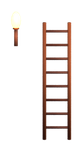
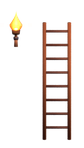
Daan: fakkel in 3D leest als fakkel (druppelvlam in drie lagen, beugel, kamerhout), ladder minder oranje; proef in ontwerp/steam/fakkel-3d
Claude-Session: https://claude.ai/code/session_01RMWUyjpDheaNiVG8vjzwCS

Changed region(s): [[0.0952, 0.0811, 0.2857, 0.3243]]

diff --git a/producten/steam-hol/modellen/hol.py b/producten/steam-hol/modellen/hol.py
@@ -132,6 +132,14 @@ HOUT = g.mat("hout", "8a4b2a", rough=0.7, spec=0.2)
 HOUT_D = g.mat("hout_d", "5a2e1c", rough=0.75)
 VLAM = g.mat("vlam", "ffb347", emis=9.0)
 VLAM_K = g.mat("vlamkern", "fff1b0", emis=14.0)
+# Daan 13 nov 23:40: vlam in drie lagen met lage emissie. Emissie 9 en 14 knipt met view transform Standard naar
+# wit: de fakkel las als een wit ei op een stokje. Proef en vergelijking in ontwerp/steam/fakkel-3d/.
+V_BUIT = g.mat("v_buit", "ff5a1f", emis=1.6)   # rood-oranje rand
+V_MID = g.mat("v_mid", "ff9b2a", emis=2.4)     # oranje
+V_HART = g.mat("v_hart", "ffe27a", emis=3.2)   # geel hart, net niet wit
+HOUT_F = g.mat("hout_f", "6e4632", rough=0.75, spec=0.2)   # zelfde donkerder hout als de kamerstukken
+DOEK = g.mat("doek", "3a2418", rough=0.9, spec=0.1)        # omwikkelde kop met pek
+IJZER = g.mat("ijzer", "3b3640", rough=0.45, metaal=0.8)
 ROBIJN = g.mat("robijn", "rood", rough=0.08, spec=1.0, emis=0.4)
 SAFIER = g.mat("safier", "4fa3ff", rough=0.08, spec=1.0, emis=0.4)
 WORTEL = g.mat("wortel", "c9a27a", rough=0.8)
@@ -276,7 +284,7 @@ go = bpy.data.objects.new("goudgloed", gd); go.location = (2.0, 0.2, 1.3); sc.co
 
 # ladder in de schacht naar het gras
 for kant in (-0.35, 0.35):
-    cil("ladder_paal", (-11.0 + kant, 0.6, 1.6), 0.05, 3.4, HOUT, verts=8)
+    cil("ladder_paal", (-11.0 + kant, 0.6, 1.6), 0.05, 3.4, HOUT_F, verts=8)  # Daan 23:45: kamerhout, minder oranje
 for k in range(8):
     cil("ladder_sport", (-11.0, 0.6, 0.25 + k * 0.4), 0.035, 0.7, HOUT_D, rot=(0, math.radians(90), 0), verts=8)
 
@@ -290,12 +298,35 @@ for i in range(10):
 
 
 # ---------- fakkels met echt warm licht ----------
+def druppel(naam, loc, r, hoog, m, scheef=0.0):
+    """Vlam als druppel: onderkant bol, bovenhelft getrokken tot een punt die iets opzij buigt. Geen schaduw."""
+    bpy.ops.mesh.primitive_uv_sphere_add(segments=20, ring_count=14, radius=1, location=(0, 0, 0))
+    o = bpy.context.object; o.name = naam
+    for v in o.data.vertices:
+        if v.co.z > 0:
+            t = v.co.z; k = (1 - t) ** 1.6
+            v.co.x = v.co.x * k + scheef * t * t; v.co.y *= k; v.co.z = t * hoog
+    o.scale = (r, r * 0.85, r); o.location = loc; o.visible_shadow = False
+    bpy.ops.object.shade_smooth(); return kies(o, m)
+
+
+def vlam_fakkel(pre, x, y, z, beugel=True, groot=1.2):
+    if beugel:
+        cil(pre + "beugelplaat", (x, y + 0.12, z - 0.18), 0.07, 0.03, IJZER, rot=(math.radians(90), 0, 0), verts=6)
+        cil(pre + "beugelarm", (x, y + 0.04, z - 0.14), 0.018, 0.16, IJZER, rot=(math.radians(90), 0, 0), verts=8)
+        cil(pre + "beugelring", (x, y - 0.03, z - 0.12), 0.07, 0.04, IJZER, verts=16)
+    cil(pre + "steel", (x, y - 0.03, z - 0.16), 0.055, 0.42, HOUT_F, rot=(math.radians(-12), 0, 0), verts=10, r2=0.035)
+    cil(pre + "kop", (x, y - 0.06, z + 0.07), 0.085 * groot, 0.13, DOEK, verts=12, r2=0.1 * groot)
+    zv = z + 0.16
+    druppel(pre + "vlam", (x, y - 0.08, zv + 0.10 * groot), 0.15 * groot, 2.3, V_BUIT, scheef=0.05)
+    druppel(pre + "vlammid", (x, y - 0.13, zv + 0.08 * groot), 0.11 * groot, 2.0, V_MID, scheef=0.04)
+    druppel(pre + "kern", (x, y - 0.18, zv + 0.05 * groot), 0.06 * groot, 1.7, V_HART, scheef=0.02)
+
 def fakkel(x, z, kracht=160):
     # namen beginnen met "fakkel" (Bram 13 nov 23:25): de pijplijn maakt er een losse laag van (HOL_ALLEEN ["fakkel"])
-    cil("fakkelsteel", (x, 1.0, z - 0.25), 0.05, 0.55, HOUT_D, rot=(math.radians(-18), 0, 0), verts=8)
-    cil("fakkelkop", (x, 0.92, z + 0.05), 0.09, 0.12, HOUT, verts=10)
-    bol("fakkelvlam", (x, 0.9, z + 0.24), (0.14, 0.11, 0.26), VLAM, 12)
-    bol("fakkelkern", (x, 0.85, z + 0.2), (0.06, 0.05, 0.1), VLAM_K, 10)
+    # Daan 13 nov 23:40: ijzeren beugel, steel van kamerhout, donkere kop, vlam als druppel met punt (3 lagen).
+    # Zelfde hoogte als de oude fakkel (van z - 0,52 tot z + 0,52), dus het vak in sprites.json blijft passen.
+    vlam_fakkel("fakkel", x, 1.0, z - 0.17, beugel=True)
     d = bpy.data.lights.new("fakkellicht", "POINT"); d.color = (1.0, 0.6, 0.28); d.energy = kracht; d.shadow_soft_size = 0.15
     o = bpy.data.objects.new("fakkellicht", d); o.location = (x, 0.5, z + 0.35); sc.collection.objects.link(o)
 
@@ -360,9 +391,11 @@ helm.rotation_euler = (0, math.radians(25), 0)
 
 # ingang: fakkel op een paal naast de schacht, met een boogje van stenen
 cil("ingangpaal", (-10.0, 0.35, MAAIVELD + 0.45), 0.05, 0.9, HOUT_D, verts=8)
-cil("ingangkop", (-10.0, 0.35, MAAIVELD + 0.93), 0.09, 0.12, HOUT, verts=10)
-bol("ingangvlam", (-10.0, 0.33, MAAIVELD + 1.1), (0.14, 0.11, 0.26), VLAM, 12)
-bol("ingangkern", (-10.0, 0.28, MAAIVELD + 1.06), (0.06, 0.05, 0.1), VLAM_K, 10)
+# Daan 13 nov 23:40: zelfde vlam als de gangfakkels, kop bovenop de paal
+cil("ingangkop", (-10.0, 0.35, MAAIVELD + 0.93), 0.085 * 1.2, 0.13, DOEK, verts=12, r2=0.1 * 1.2)
+druppel("ingangvlam", (-10.0, 0.33, MAAIVELD + 1.03 + 0.12), 0.18, 2.3, V_BUIT, scheef=0.05)
+druppel("ingangvlammid", (-10.0, 0.28, MAAIVELD + 1.03 + 0.10), 0.13, 2.0, V_MID, scheef=0.04)
+druppel("ingangkern", (-10.0, 0.23, MAAIVELD + 1.03 + 0.06), 0.07, 1.7, V_HART, scheef=0.02)
 il = bpy.data.lights.new("ingangslicht", "POINT"); il.color = (1.0, 0.6, 0.28); il.energy = 60; il.shadow_soft_size = 0.15
 ilo = bpy.data.objects.new("ingangslicht", il); ilo.location = (-10.0, 0.0, MAAIVELD + 1.15); sc.collection.objects.link(ilo)
 for k in range(9):

diff --git a/ontwerp/steam/fakkel-3d/fakkel.py b/ontwerp/steam/fakkel-3d/fakkel.py
@@ -1,0 +1,102 @@
+"""Proef fakkel in 3D (Daan, 13 nov 2026). Links de huidige fakkel uit hol.py, dan voorstel A en B.
+Draai: <venv>/bin/python fakkel.py uit.png breedte hoogte samples [doorzichtig 0/1]
+Waarom: in de deco-laag las de huidige vlam als een wit ei op een stokje (wattenstaafje). Oorzaak: emissie 9 en 14
+met view transform Standard knipt alles naar wit. Een fakkel leest pas als fakkel met een oranje druppel met punt,
+een geel hart, een donkere omwikkelde kop en een ijzeren beugel aan de muur.
+"""
+import sys, os, math
+sys.path.insert(0, os.path.join(os.path.dirname(os.path.abspath(__file__)), "../../../producten/steam-hol/modellen"))
+import bpy
+import gedeeld as g
+
+uit, W, H, S = sys.argv[1], int(sys.argv[2]), int(sys.argv[3]), int(sys.argv[4])
+DOOR = (sys.argv[5] == "1") if len(sys.argv) > 5 else False
+g.leeg()
+sc = bpy.context.scene
+
+
+def kies(o, m):
+    o.data.materials.append(m); return o
+
+
+def bol(naam, loc, schaal, m, segs=24):
+    bpy.ops.mesh.primitive_uv_sphere_add(segments=segs, ring_count=max(8, segs // 2), location=loc)
+    o = bpy.context.object; o.name = naam; o.scale = schaal
+    bpy.ops.object.shade_smooth(); return kies(o, m)
+
+
+def cil(naam, loc, r, d, m, rot=(0, 0, 0), verts=24, r2=None):
+    if r2 is None:
+        bpy.ops.mesh.primitive_cylinder_add(vertices=verts, radius=r, depth=d, location=loc, rotation=rot)
+    else:
+        bpy.ops.mesh.primitive_cone_add(vertices=verts, radius1=r, radius2=r2, depth=d, location=loc, rotation=rot)
+    o = bpy.context.object; o.name = naam; bpy.ops.object.shade_smooth(); return kies(o, m)
+
+
+def druppel(naam, loc, r, hoog, m, scheef=0.0):
+    """Vlam als druppel: onderkant bol, boven een punt die iets opzij buigt (flakkert)."""
+    bpy.ops.mesh.primitive_uv_sphere_add(segments=20, ring_count=14, radius=1, location=(0, 0, 0))
+    o = bpy.context.object; o.name = naam
+    for v in o.data.vertices:
+        z = v.co.z
+        if z > 0:  # bovenhelft trekken tot een punt
+            t = z
+            k = (1 - t) ** 1.6
+            v.co.x *= k; v.co.y *= k
+            v.co.z = z * hoog
+            v.co.x += scheef * t * t
+    o.scale = (r, r * 0.85, r); o.location = loc
+    o.visible_shadow = False  # een vlam geeft licht, geen schaduw
+    bpy.ops.object.shade_smooth(); return kies(o, m)
+
+
+# --- huidige (hol.py) ---
+HOUT = g.mat("hout", "8a4b2a", rough=0.7, spec=0.2)
+HOUT_D = g.mat("hout_d", "5a2e1c", rough=0.75)
+VLAM = g.mat("vlam", "ffb347", emis=9.0)
+VLAM_K = g.mat("vlamkern", "fff1b0", emis=14.0)
+
+
+def huidig(x, z=1.0):
+    cil("steel", (x, 1.0, z - 0.25), 0.05, 0.55, HOUT_D, rot=(math.radians(-18), 0, 0), verts=8)
+    cil("kop", (x, 0.92, z + 0.05), 0.09, 0.12, HOUT, verts=10)
+    bol("vlam", (x, 0.9, z + 0.24), (0.14, 0.11, 0.26), VLAM, 12).visible_shadow = False
+    bol("vlamkern", (x, 0.85, z + 0.2), (0.06, 0.05, 0.1), VLAM_K, 10).visible_shadow = False
+
+
+# --- nieuw ---
+HOUT2 = g.mat("hout2", "6e4632", rough=0.75, spec=0.2)      # zelfde donkerder hout als de kamers (ronde 5)
+DOEK = g.mat("doek", "3a2418", rough=0.9, spec=0.1)          # omwikkelde kop met pek
+IJZER = g.mat("ijzer", "3b3640", rough=0.45, metaal=0.8)
+V_BUIT = g.mat("v_buit", "ff5a1f", emis=1.6)                 # rood-oranje rand
+V_MID = g.mat("v_mid", "ff9b2a", emis=2.4)                   # oranje
+V_HART = g.mat("v_hart", "ffe27a", emis=3.2)                 # geel hart, net niet wit
+
+
+def nieuw(x, z=1.0, beugel=True, groot=1.0):
+    y = 1.0
+    if beugel:  # ijzeren plaatje op de muur en een ring om de steel
+        cil("beugelplaat", (x, y + 0.12, z - 0.18), 0.07, 0.03, IJZER, rot=(math.radians(90), 0, 0), verts=6)
+        cil("beugelarm", (x, y + 0.04, z - 0.14), 0.018, 0.16, IJZER, rot=(math.radians(90), 0, 0), verts=8)
+        cil("beugelring", (x, y - 0.03, z - 0.12), 0.07, 0.04, IJZER, verts=16)
+    cil("steel", (x, y - 0.03, z - 0.25), 0.055, 0.6, HOUT2, rot=(math.radians(-12), 0, 0), verts=10, r2=0.035)
+    cil("kop", (x, y - 0.06, z + 0.07), 0.085 * groot, 0.13, DOEK, verts=12, r2=0.1 * groot)
+    zv = z + 0.16
+    druppel("vlam_buit", (x, y - 0.08, zv + 0.10 * groot), 0.15 * groot, 2.3, V_BUIT, scheef=0.05)
+    druppel("vlam_mid", (x, y - 0.13, zv + 0.08 * groot), 0.11 * groot, 2.0, V_MID, scheef=0.04)
+    druppel("vlam_hart", (x, y - 0.18, zv + 0.05 * groot), 0.06 * groot, 1.7, V_HART, scheef=0.02)
+    d = bpy.data.lights.new("fakkellicht", "POINT"); d.color = (1.0, 0.6, 0.28); d.energy = 25; d.shadow_soft_size = 0.15
+    o = bpy.data.objects.new("fakkellicht", d); o.location = (x, y - 0.35, zv + 0.15); sc.collection.objects.link(o)
+
+
+huidig(-0.8)
+nieuw(0.0, groot=1.2)  # gekozen: met beugel, vlam 1,2
+nieuw(0.8, beugel=False, groot=1.2)
+
+# muur erachter (alleen als niet doorzichtig) zodat je de leesbaarheid op pruim ziet
+if not DOOR:
+    bpy.ops.mesh.primitive_plane_add(size=6, location=(0, 1.4, 1.0), rotation=(math.radians(90), 0, 0))
+    p = bpy.context.object; p.data.materials.append(g.mat("muur", "4a2e4f", rough=0.9))
+g.camera(hoogte_midden=1.1, schaal=2.4)
+g.licht()
+g.render(uit, W, H, S, doorzichtig=DOOR)

diff --git a/ontwerp/steam/fakkel-3d/LEESMIJ.md b/ontwerp/steam/fakkel-3d/LEESMIJ.md
@@ -1,0 +1,16 @@
+# Fakkel in 3D (Daan, 13 nov 2026)
+
+Aanleiding: het blad `deco` (Bram, 23:30) maakte van de pixelfakkel een 3D-fakkel, maar de vlam las als een wit ei op een stokje. Oorzaak: emissie 9 en 14 met view transform Standard knipt naar wit.
+
+Nieuw ontwerp (in `fakkel.py` als proef, in `hol.py` op tak `ontwerp/steam-fakkel`):
+- vlam als druppel met een punt die iets opzij buigt, in drie lagen: rood-oranje rand (ff5a1f, emissie 1,6), oranje (ff9b2a, 2,4), geel hart (ffe27a, 3,2), geen schaduw;
+- donkere omwikkelde kop (3a2418), steel van kamerhout (6e4632), ijzeren beugel met ring aan de muur;
+- zelfde hoogte als de oude fakkel, zodat het vak in `sprites.json` (6 bij 12 spelpixels) blijft passen;
+- ladderpalen ook in kamerhout, minder oranje.
+
+Beelden (GEZIEN met Read):
+- `vergelijk-huidig-gekozen-zonderbeugel.png`: links groot (oud, gekozen, zonder beugel), midden op ware grootte 4x, rechts de pixelfakkel uit de strook.
+- `deco-links-oud-rechts-nieuw-4x.png`: het echte blad `deco` uit de pijplijn, oud en nieuw.
+- `hol-boven-oud-onder-nieuw.png`: het hele hol op 1440x240, boven oud, onder nieuw.
+
+Draaien: `venv/bin/python fakkel.py /abs/pad/uit.png 900 600 48` (venv met `bpy==5.2.4`, Python 3.13).
